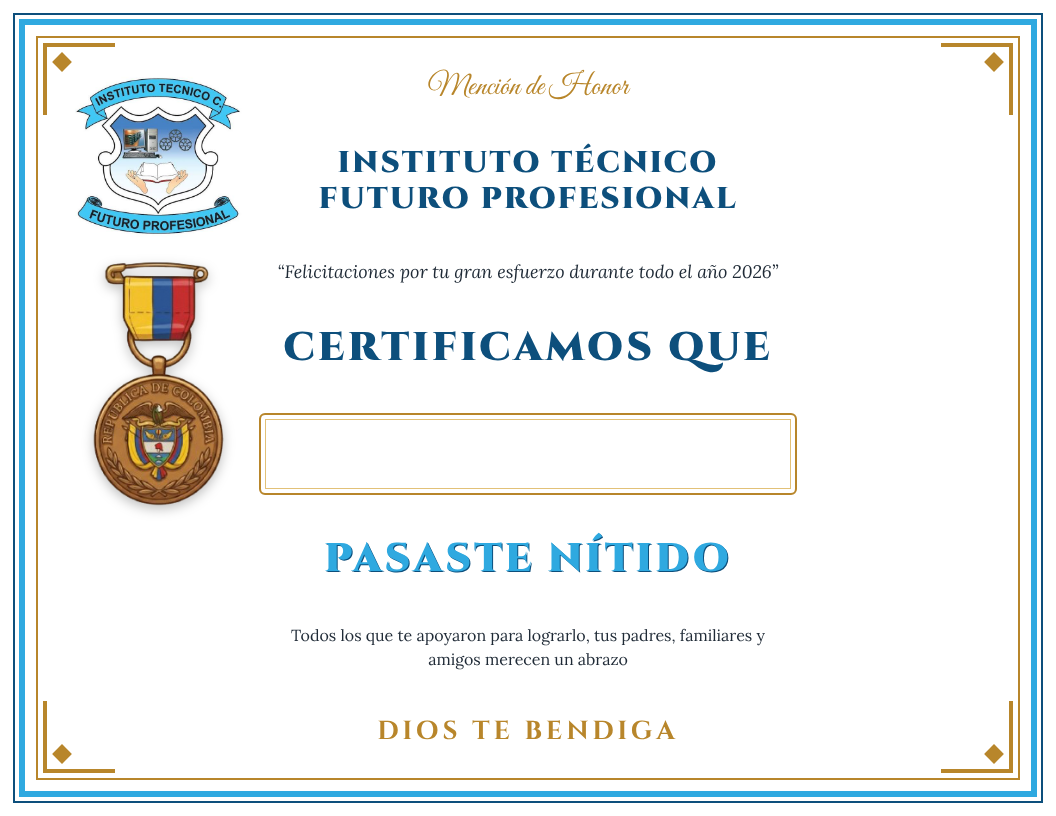
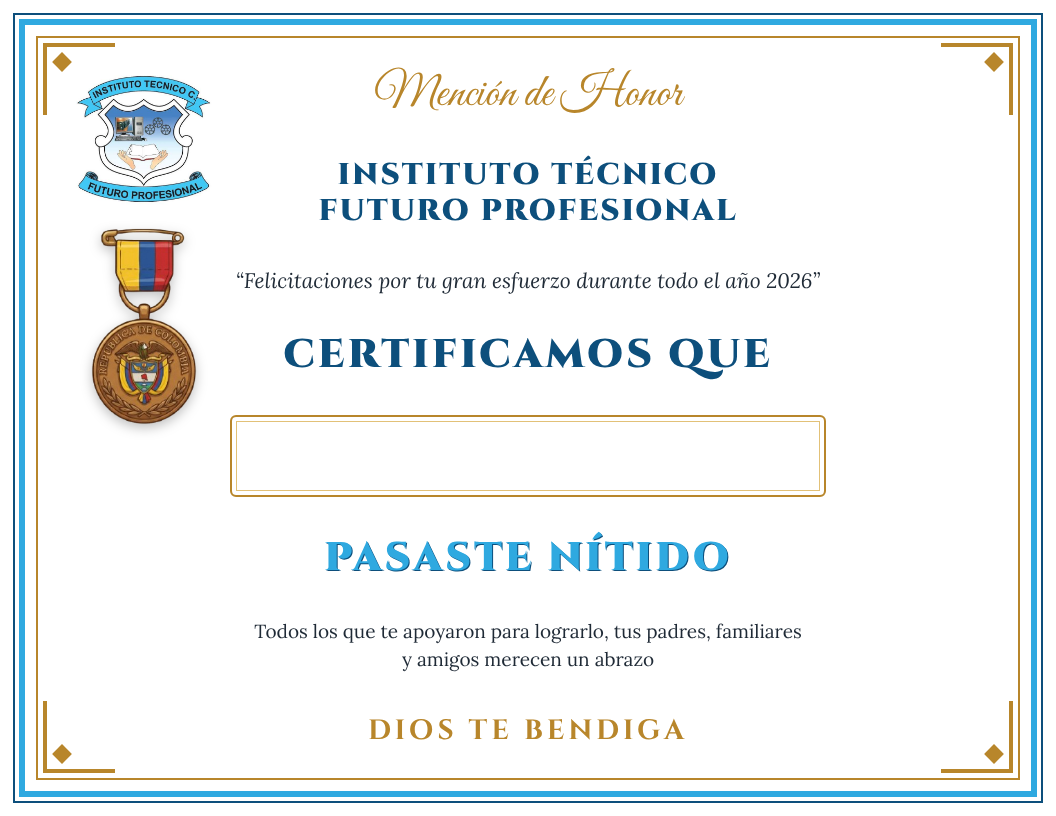
Agrandar textos pequeños y "Mención de Honor", reducir imágenes
Claude-Session: https://claude.ai/code/session_01BChD1Ut41wBkBYEeCcQyt1

diff --git a/styles.css b/styles.css
@@ -33,7 +33,7 @@ body {
   height: 8.5in;
   background: var(--papel);
   display: grid;
-  grid-template-columns: 2.1in 1fr 2.1in;
+  grid-template-columns: 1.8in 1fr 1.8in;
   padding: 0.55in 0.6in;
   box-shadow: 0 10px 40px rgba(0, 0, 0, 0.25);
   overflow: hidden;
@@ -96,13 +96,13 @@ body {
 }
 
 .escudo {
-  width: 1.85in;
+  width: 1.5in;
   height: auto;
   mix-blend-mode: multiply; /* el fondo blanco del escudo se funde con el papel */
 }
 
 .medalla {
-  height: 2.6in;
+  height: 2.1in;
   width: auto;
   filter: drop-shadow(0 4px 6px rgba(0, 0, 0, 0.25));
 }
@@ -121,7 +121,7 @@ body {
 
 .etiqueta {
   font-family: "Great Vibes", cursive;
-  font-size: 30px;
+  font-size: 46px;
   color: var(--dorado);
   line-height: 1;
 }
@@ -137,7 +137,7 @@ body {
 
 .felicitaciones {
   font-style: italic;
-  font-size: 18px;
+  font-size: 21px;
   color: var(--texto);
   white-space: nowrap;
 }
@@ -167,15 +167,15 @@ body {
 }
 
 .mensaje {
-  font-size: 16px;
+  font-size: 19px;
   line-height: 1.45;
-  max-width: 5in;
+  max-width: 5.8in;
 }
 
 .bendicion {
   font-family: "Cinzel", "Times New Roman", serif;
   font-weight: 700;
-  font-size: 26px;
+  font-size: 28px;
   letter-spacing: 4px;
   color: var(--dorado);
 }
